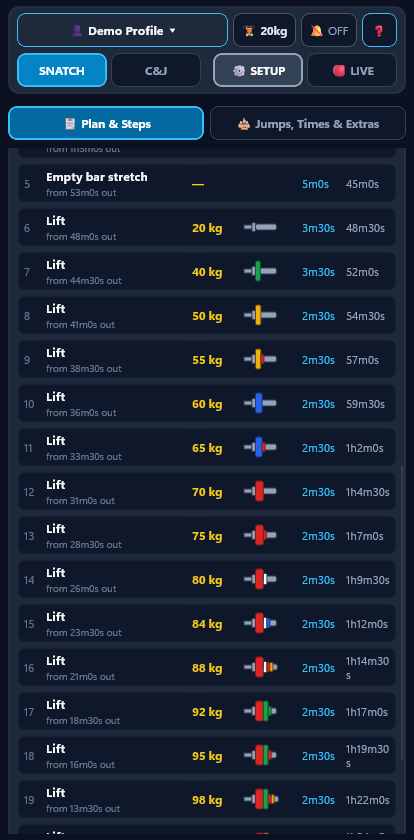
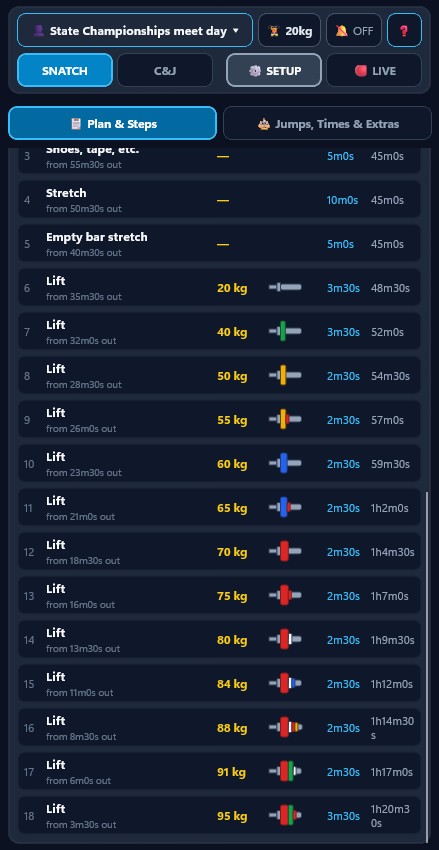
Update demo screenshots with State Championships meet day profile and 95kg/123kg openers

diff --git a/src/WeightliftingCompWarmup.Maui/Views/MainPage.cs b/src/WeightliftingCompWarmup.Maui/Views/MainPage.cs
@@ -443,7 +443,7 @@ public class MainPage : ContentPage
             FontAttributes = FontAttributes.Bold,
             FontSize = compact ? 12 : 13,
             CornerRadius = 8,
-            Padding = compact ? new Thickness(8, 2) : new Thickness(12, 6),
+            Padding = compact ? new Thickness(5, 2) : new Thickness(12, 6),
             HeightRequest = compact ? 34 : 40,
             HorizontalOptions = compact ? LayoutOptions.Fill : LayoutOptions.Start
         };
@@ -3512,6 +3512,11 @@ public class MainPage : ContentPage
             LineBreakMode = LineBreakMode.TailTruncation
         };
         valLbl.SetBinding(Label.TextProperty, valueBindingPath);
+        return FinishLiveMetricChip(border, stack, valLbl);
+    }
+
+    private static View FinishLiveMetricChip(Border border, VerticalStackLayout stack, Label valLbl)
+    {
         stack.Add(valLbl);
 
         border.Content = stack;

diff --git a/README.md b/README.md
@@ -30,7 +30,7 @@ Enter your lifter's **Snatch** or **Clean & Jerk** opener, barbell type, weight-
 ### 📱 Phone Layout (Portrait)
 | Snatch Setup & Opener | Warmup Schedule & Plates | Snatch LIVE Countdown | Clean & Jerk 3-Phase LIVE |
 | :---: | :---: | :---: | :---: |
-| <img src="docs/screenshots/01-phone-snatch-setup.png" alt="Snatch Setup & 110kg Opener" width="200" /> | <img src="docs/screenshots/02-phone-warmup-schedule.png" alt="Warmup Schedule & IWF Plate Sleeves" width="200" /> | <img src="docs/screenshots/04-phone-snatch-live.png" alt="Snatch LIVE Countdown" width="200" /> | <img src="docs/screenshots/05-phone-cj-live-3phase.png" alt="Clean & Jerk 3-Phase LIVE" width="200" /> |
+| <img src="docs/screenshots/01-phone-snatch-setup.png" alt="Snatch Setup & 95kg Opener" width="200" /> | <img src="docs/screenshots/02-phone-warmup-schedule.png" alt="Warmup Schedule & IWF Plate Sleeves" width="200" /> | <img src="docs/screenshots/04-phone-snatch-live.png" alt="Snatch LIVE Countdown" width="200" /> | <img src="docs/screenshots/05-phone-cj-live-3phase.png" alt="Clean & Jerk 3-Phase LIVE" width="200" /> |
 
 | Jumps, Times & Extras | About & Ko-fi Support |
 | :---: | :---: |
